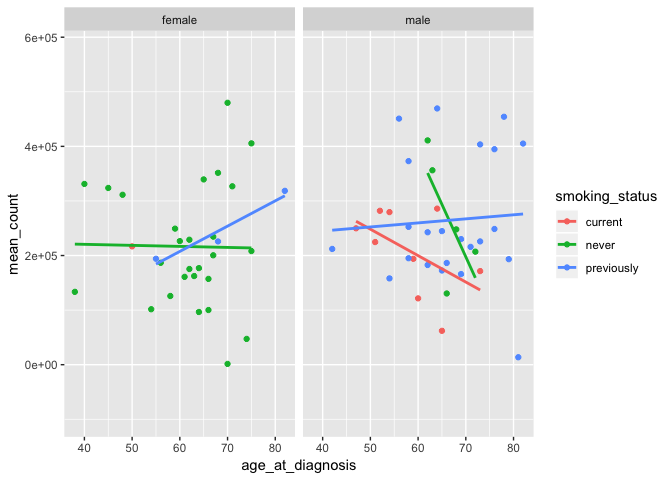
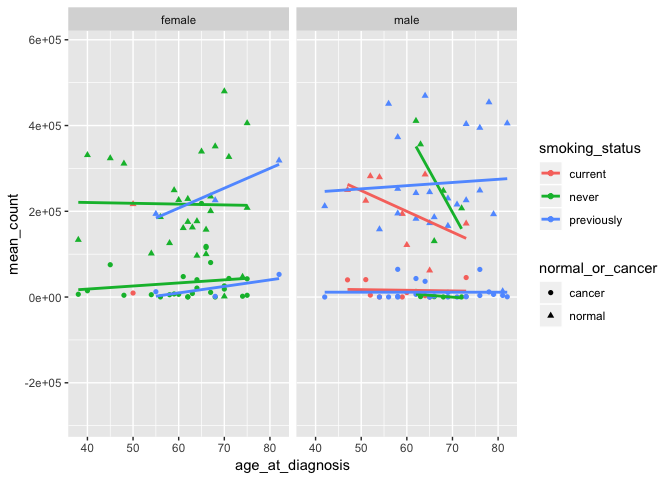
Stage new markdown and figure

diff --git a/Analysis_Report_02_RNASeq.md b/Analysis_Report_02_RNASeq.md
@@ -136,23 +136,24 @@ joined_table %>%
   filter(genename == "SFTPC") %>%
   filter(smoking_status != "unknown") %>%
   filter(normal_rnaseq == "yes") %>%
-  filter(normal_or_cancer == "normal") %>%
-  group_by(normal_or_cancer, gender, smoking_status, cancer_stage, age_at_diagnosis) %>%
+  group_by(normal_or_cancer, gender, smoking_status,
+           cancer_stage, age_at_diagnosis) %>%
   summarise(mean_count = mean(counts_lengthscaledtpm)) %>%
   ggplot(aes(x = age_at_diagnosis,
              y = mean_count,
-             color = smoking_status)) +
+             color = smoking_status,
+             shape = normal_or_cancer)) +
   geom_point() +
    geom_smooth(method = "lm",
               alpha = 0) +
   facet_grid(~ gender)
 ```
 
-![](Analysis_Report_02_RNASeq_files/figure-markdown_github/scaterplot-of-expression-level-of-gender-age-smoking-1.png) **Figure4**:
+![](Analysis_Report_02_RNASeq_files/figure-markdown_github/scaterplot-of-expression-level-of-gender-age-smoking-1.png)
+
+**Figure4**:
 
 ![](Analysis_Report_02_RNASeq_files/figure-markdown_github/make-boxplot-of-highly-expressed-genes-1.png)
-
-**Figure 2**: Here we show another example figure caption.
 
 Discussion
 ==========
